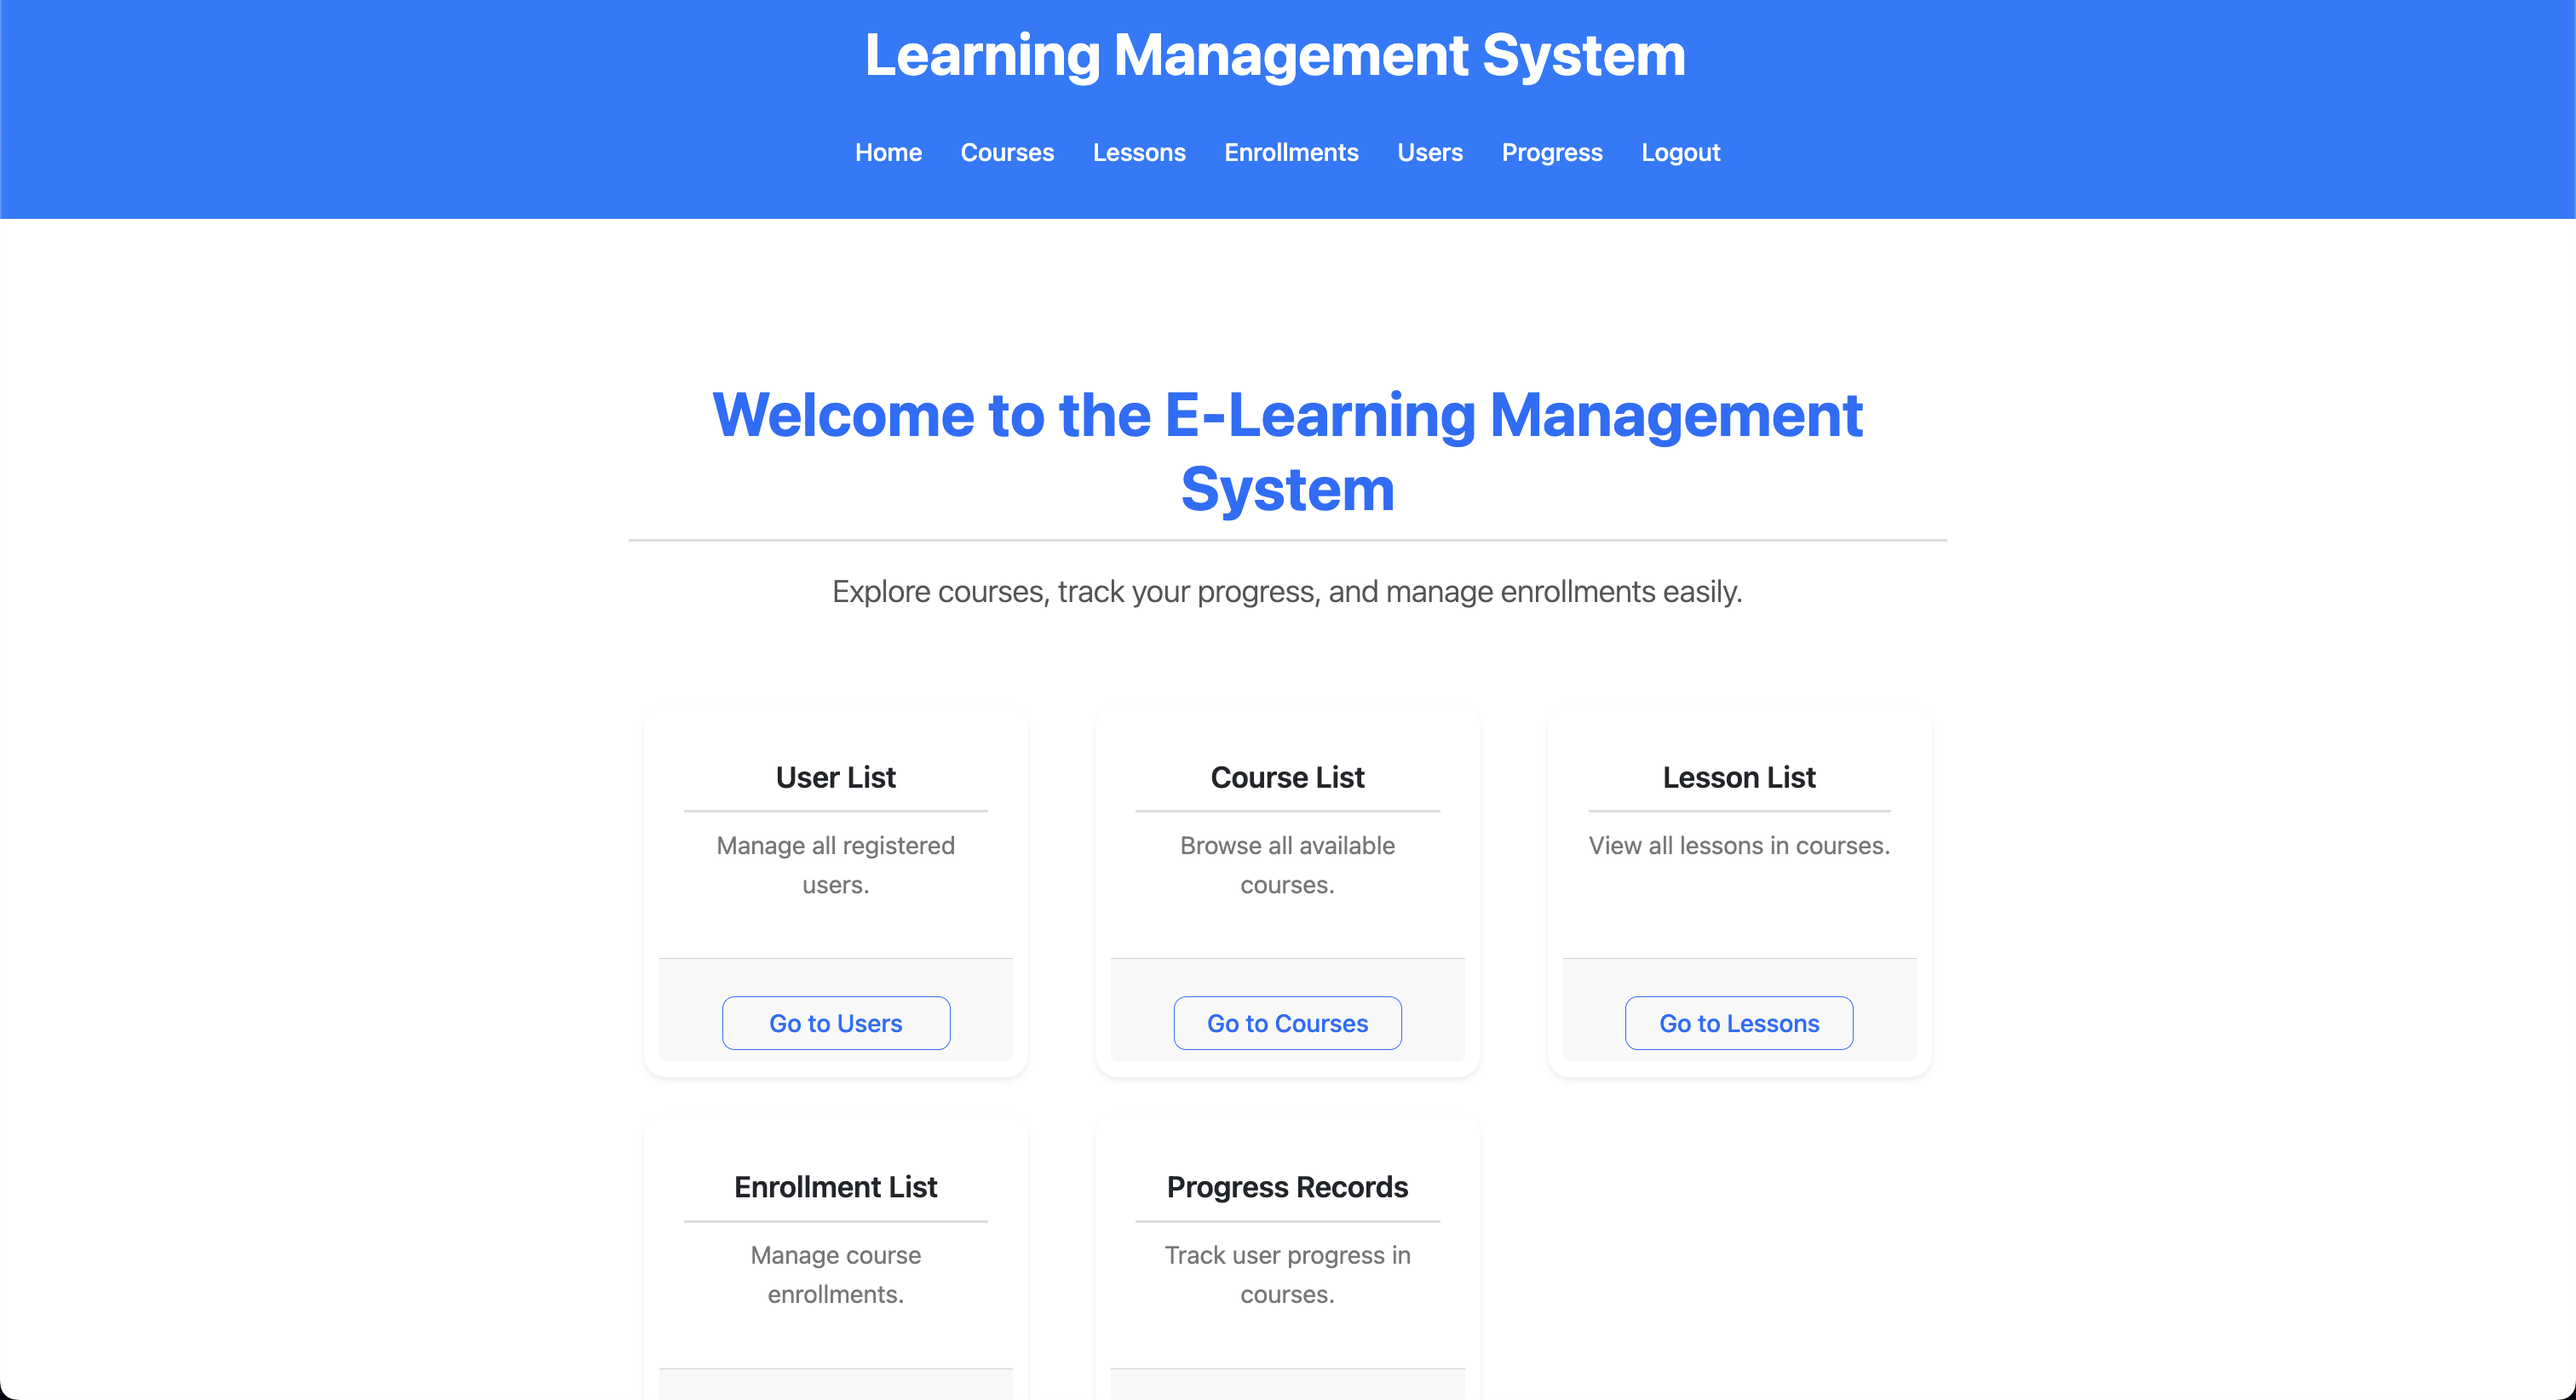
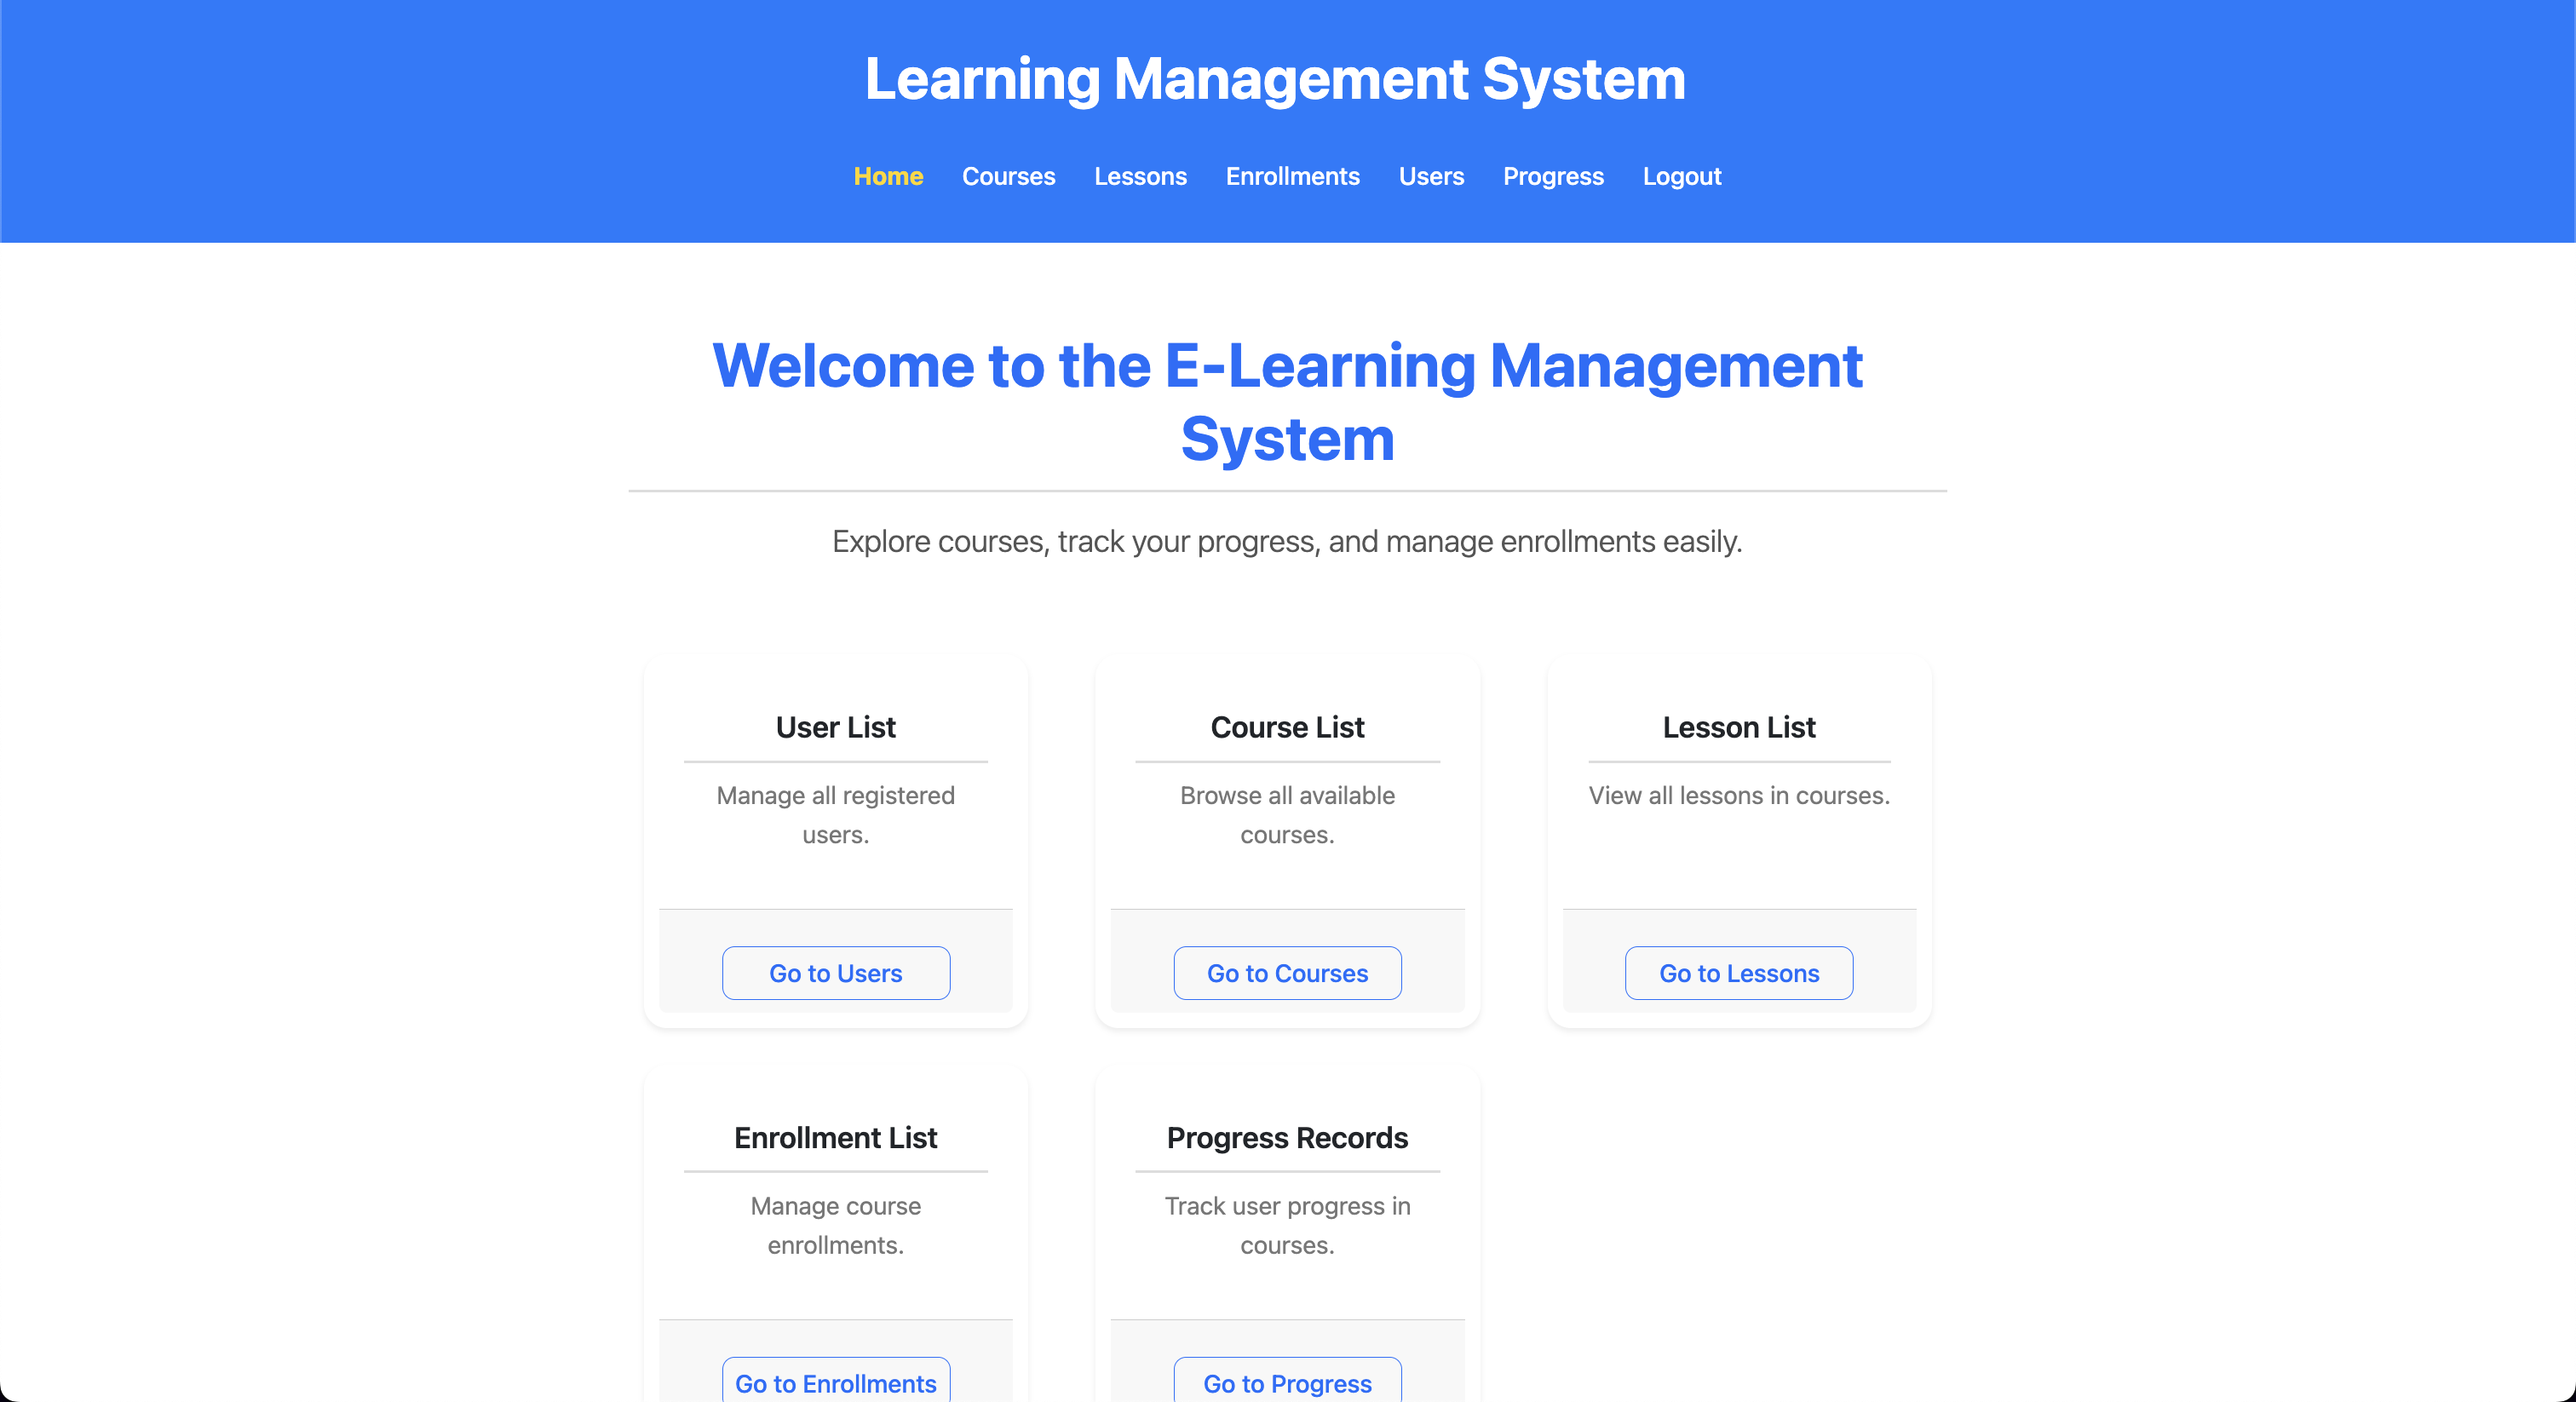
Update: Enhanced Angular frontend

diff --git a/LMS-Frontend/app/src/app/components/course-list/course-list.component.html b/LMS-Frontend/app/src/app/components/course-list/course-list.component.html
@@ -1,4 +1,4 @@
-<div class="container mt-4">
+<div class="container">
   <h2 class="mb-4 text-primary text-center">Platform Overview</h2>
 
   <!-- Chart Section -->
@@ -9,7 +9,7 @@
   </div>
 
   <h2 class="mb-4 text-primary text-center">Courses</h2>
-  <div *ngIf="errorMessage" class="alert alert-danger">{{ errorMessage }}</div>
+  <div *ngIf="errorMessage" class="alert alert-danger" style="text-align: center;">{{ errorMessage }}</div>
   <div *ngIf="courses.length === 0 && !errorMessage" class="alert alert-info">No courses available.</div>
 
   <!-- Course Cards Section -->

diff --git a/LMS-Frontend/app/src/app/components/lesson-list/lesson-list.component.html b/LMS-Frontend/app/src/app/components/lesson-list/lesson-list.component.html
@@ -1,4 +1,4 @@
-<div class="container mt-4">
+<div class="container">
   <h2 class="mb-4 text-primary text-center">Platform Overview</h2>
 
   <!-- Chart Section -->
@@ -9,7 +9,7 @@
   </div>
 
   <h2 class="mb-4 text-primary text-center">Lessons</h2>
-  <div *ngIf="errorMessage" class="alert alert-danger">{{ errorMessage }}</div>
+  <div *ngIf="errorMessage" style="text-align: center" class="alert alert-danger">{{ errorMessage }}</div>
   <div *ngIf="lessons.length === 0 && !errorMessage" class="alert alert-info">No lessons available.</div>
 
   <!-- Lesson Cards Section -->

diff --git a/LMS-Frontend/app/src/app/components/enrollment-list/enrollment-list.component.html b/LMS-Frontend/app/src/app/components/enrollment-list/enrollment-list.component.html
@@ -1,5 +1,5 @@
-<div class="container mt-4">
-  <h2 class="mb-4 text-primary text-center">Platform Overview</h2>
+<div class="container">
+  <h2 style="margin-top: 0" class="mb-4 text-primary text-center">Platform Overview</h2>
 
   <!-- Chart Section -->
   <div class="chart-section mb-5 mt-5">

diff --git a/LMS-Frontend/app/src/app/pages/home/home.component.html b/LMS-Frontend/app/src/app/pages/home/home.component.html
@@ -1,4 +1,4 @@
-<div class="home container text-center mt-5">
+<div class="home container text-center">
   <!-- Welcome Section -->
   <div class="welcome-section mb-5">
     <h1 class="display-4 text-primary mb-3" style="text-align: center">Welcome to the E-Learning Management System</h1>

diff --git a/LMS-Frontend/app/src/app/components/progress-list/progress-list.component.html b/LMS-Frontend/app/src/app/components/progress-list/progress-list.component.html
@@ -1,4 +1,4 @@
-<div class="container mt-4">
+<div class="container">
   <h2 class="mb-4 text-primary text-center">Platform Overview</h2>
 
   <!-- Chart Section -->

diff --git a/LMS-Frontend/app/src/app/components/user-list/user-list.component.html b/LMS-Frontend/app/src/app/components/user-list/user-list.component.html
@@ -1,4 +1,4 @@
-<div class="container mt-4">
+<div class="container">
   <h2 class="mb-4 text-primary text-center">Platform Overview</h2>
 
   <!-- Chart Section -->

diff --git a/LMS-Frontend/app/src/app/components/enrollment-list/enrollment-list.component.css b/LMS-Frontend/app/src/app/components/enrollment-list/enrollment-list.component.css
@@ -10,6 +10,10 @@
   height: 300px;
 }
 
+.container {
+  padding-top: 0;
+}
+
 .card {
   border: none;
   transition: transform 0.3s, box-shadow 0.3s;

diff --git a/LMS-Frontend/app/src/app/auth/login/login.component.css b/LMS-Frontend/app/src/app/auth/login/login.component.css
@@ -3,6 +3,7 @@
   display: flex;
   align-items: center;
   justify-content: center;
+  margin-top: 0;
 }
 
 .form-label {

diff --git a/LMS-Backend/LMSBackend/urls.py b/LMS-Backend/LMSBackend/urls.py
@@ -10,9 +10,9 @@ schema_view = get_schema_view(
         title="Learning Management System API",
         default_version='v1',
         description="API documentation for the Learning Management System",
-        terms_of_service="https://www.example.com/terms/",
-        contact=openapi.Contact(email="contact@example.com"),
-        license=openapi.License(name="BSD License"),
+        terms_of_service="http://127.0.0.1:8000/swagger/",
+        contact=openapi.Contact(email="hoangson091104@gmail.com"),
+        license=openapi.License(name="MIT License"),
     ),
     public=True,
     permission_classes=(permissions.AllowAny,),

diff --git a/LMS-Backend/LMSBackend/settings.py b/LMS-Backend/LMSBackend/settings.py
@@ -22,13 +22,6 @@ connect(
 )
 
 
-# SECURITY WARNING: keep the secret key used in production secret!
-SECRET_KEY = 'django-insecure-x$5ls=4=0nm5b2!80g3cue#d@=72azrwwvj6ef3*a(&cm6*0+e'
-
-# SECURITY WARNING: don't run with debug turned on in production!
-DEBUG = True
-
-
 # Build paths inside the project like this: BASE_DIR / 'subdir'.
 BASE_DIR = Path(__file__).resolve().parent.parent
 

diff --git a/README.md b/README.md
@@ -278,6 +278,12 @@ Learning-Management-System/
   <img src="docs/login-ui.png" alt="Login Page" style="border-radius: 10px" width="100%"/>
 </p>
 
+**Unauthorized Access (when not logged in)**:
+
+<p align="center" style="cursor: pointer">
+  <img src="docs/unauthorized-ui.png" alt="Unauthorized Access Page" style="border-radius: 10px" width="100%"/>
+</p>
+
 **Footer**:
 
 <p align="center" style="cursor: pointer">
